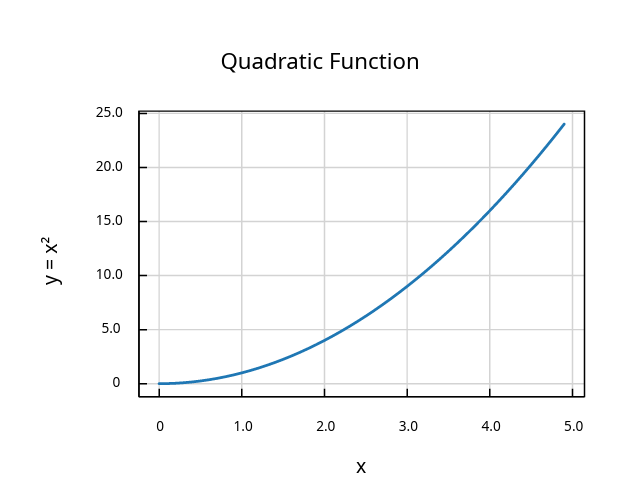
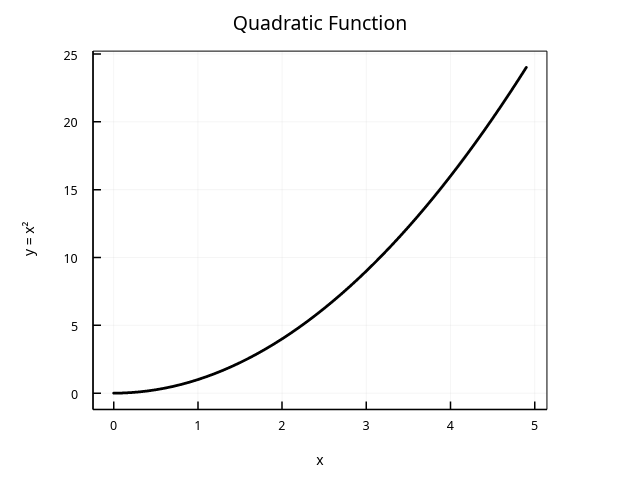
docs: update README for v0.1.0 release
- Fix CI badge URL to Ameyanagi/ruviz
- Remove unverified performance claims and benchmarks
- Remove backend selection section (auto-backend for v0.2)
- Update plot types count to accurate 25+
- Update feature flags table with animation and pdf
- Fix code examples to match actual API
- Simplify comparison section
- Add international text support note
- Update all GitHub URLs to Ameyanagi/ruviz
- Regenerate readme_example.png with publication theme

diff --git a/README.md b/README.md
@@ -5,7 +5,7 @@
 [![Crates.io](https://img.shields.io/crates/v/ruviz)](https://crates.io/crates/ruviz)
 [![Documentation](https://docs.rs/ruviz/badge.svg)](https://docs.rs/ruviz)
 [![License](https://img.shields.io/badge/license-MIT%2FApache--2.0-blue)](LICENSE-MIT)
-[![Build Status](https://img.shields.io/github/workflow/status/ruviz/ruviz/CI)](https://github.com/ruviz/ruviz/actions)
+[![CI](https://github.com/Ameyanagi/ruviz/actions/workflows/ci.yml/badge.svg)](https://github.com/Ameyanagi/ruviz/actions/workflows/ci.yml)
 
 ## Quick Start
 
@@ -17,7 +17,7 @@ use ruviz::simple::*;
 let x: Vec<f64> = (0..50).map(|i| i as f64 * 0.1).collect();
 let y: Vec<f64> = x.iter().map(|&x| x * x).collect();
 
-// One line with automatic optimization
+// One line to create a plot
 line_plot_with_title(&x, &y, "Quadratic Function", "plot.png")?;
 ```
 
@@ -34,7 +34,6 @@ Plot::new()
     .title("Quadratic Function")
     .xlabel("x")
     .ylabel("y = x²")
-    .auto_optimize()  // Intelligent backend selection
     .save("plot.png")?;
 ```
 
@@ -42,19 +41,13 @@ Plot::new()
 
 ## Features
 
-### 🚀 Performance First
-- **<100ms** for 100K points with parallel rendering
-- **<1s** for 1M points with SIMD optimization
-- **<2s** for 100M+ points with DataShader aggregation
-- Zero-copy data handling with ndarray/polars integration
-
 ### 🛡 Safety & Quality
 - **Zero unsafe** in public API
 - Strong type system prevents runtime errors
 - Comprehensive error handling with `Result` types
 - Memory-safe by design
 
-### 📊 Rich Plot Types (30+)
+### 📊 Rich Plot Types (25+)
 **Basic**: Line, Scatter, Bar, Histogram, Box Plot, Heatmap
 **Distribution**: Violin, KDE (1D/2D), Boxen, ECDF, Strip, Swarm
 **Categorical**: Grouped Bar, Stacked Bar, Horizontal Bar
@@ -73,16 +66,15 @@ Plot::new()
 - **Multiple formats**: PNG, SVG *(SVG in development)*
 - **Professional themes**: Light, Dark, Publication, Seaborn-style
 - **Custom styling**: Colors, fonts, markers, line styles
-- **Unicode text**: Full UTF-8 support with cosmic-text
+- **International text**: Full UTF-8 support (Japanese, Chinese, Korean, etc.) with cosmic-text
 
 ### ⚡ Advanced Features
-- **Auto-optimization**: Intelligent backend selection based on data size
 - **Simple API**: One-liner functions for quick plotting
-- **Parallel rendering**: Multi-threaded for large datasets
-- **GPU acceleration**: Optional wgpu backend for real-time
-- **Interactive plots**: Optional winit integration
-- **Memory optimization**: Pooled buffers, adaptive strategies
-- **Cross-platform**: Linux, macOS, Windows, WASM
+- **Parallel rendering**: Multi-threaded for large datasets (rayon)
+- **GPU acceleration**: Optional wgpu backend (experimental)
+- **Interactive plots**: Optional winit window integration
+- **Animation**: GIF export with `record!` macro and easing functions
+- **Cross-platform**: Linux, macOS, Windows
 
 ## Installation
 
@@ -102,16 +94,18 @@ Choose features based on your needs:
 ruviz = { version = "0.1", features = ["parallel", "simd"] }
 ```
 
-| Feature | Description | Use When | Compile Time |
-|---------|-------------|----------|--------------|
-| `default` | ndarray + parallel | General use | +5s |
-| `parallel` | Multi-threaded rendering | >10K points | +3s |
-| `simd` | Vectorized transforms | >100K points | +1s |
-| `gpu` | GPU acceleration | Real-time/interactive | +30s |
-| `interactive` | winit window support | Interactive plots | +15s |
-| `ndarray_support` | ndarray types | Scientific computing | +2s |
-| `polars_support` | DataFrame support | Data analysis | +10s |
-| `full` | All features | Power users | +45s |
+| Feature | Description | Use When |
+|---------|-------------|----------|
+| `default` | ndarray + parallel | General use |
+| `parallel` | Multi-threaded rendering | Large datasets |
+| `simd` | Vectorized transforms | Performance-critical |
+| `animation` | GIF animation export | Animated plots |
+| `gpu` | GPU acceleration (experimental) | Real-time rendering |
+| `interactive` | winit window support | Interactive plots |
+| `ndarray_support` | ndarray types | Scientific computing |
+| `polars_support` | DataFrame support | Data analysis |
+| `pdf` | PDF export | Publication output |
+| `full` | All features | Power users |
 
 For minimal builds: `default-features = false`
 
@@ -157,61 +151,62 @@ Plot::new()
 ```rust
 use ruviz::prelude::*;
 
-let (mut fig, axes) = subplots(2, 2)?;
+let plot1 = Plot::new().line(&x, &y).title("Line").end_series();
+let plot2 = Plot::new().scatter(&x, &y).title("Scatter").end_series();
+let plot3 = Plot::new().bar(&["A", "B", "C"], &[1.0, 2.0, 3.0]).title("Bar").end_series();
+let plot4 = Plot::new().histogram(&data).title("Histogram").end_series();
 
-axes[0][0].line(&x, &y_linear).title("Linear");
-axes[0][1].scatter(&x, &y_scatter).title("Scatter");
-axes[1][0].bar(&categories, &values).title("Bar Chart");
-axes[1][1].histogram(&data).title("Distribution");
-
-fig.suptitle("Scientific Analysis")
+subplots(2, 2, 800, 600)?
+    .suptitle("Scientific Analysis")
+    .subplot(0, 0, plot1)?
+    .subplot(0, 1, plot2)?
+    .subplot(1, 0, plot3)?
+    .subplot(1, 1, plot4)?
     .save("subplots.png")?;
 ```
 
-### Large Dataset with Auto-Optimization
+### Large Dataset
 
 ```rust
 use ruviz::prelude::*;
 
-// 100K points - automatically uses parallel rendering
+// 100K points with parallel rendering (enable "parallel" feature)
 let x: Vec<f64> = (0..100_000).map(|i| i as f64).collect();
 let y: Vec<f64> = x.iter().map(|&x| x.sin()).collect();
 
 Plot::new()
-    .line(&x, &y)  // Automatically optimized for size
+    .line(&x, &y)
     .title("Large Dataset")
-    .save("large.png")?;  // Renders in <100ms
+    .save("large.png")?;
 ```
 
-## Performance
+### Animation
 
-Measured on AMD Ryzen 9 5950X, 64GB RAM, Ubuntu 22.04:
+```rust
+use ruviz::prelude::*;
+use ruviz::animation::RecordConfig;
+use ruviz::record;
 
-| Dataset Size | Render Time | Backend | Status |
-|--------------|-------------|---------|--------|
-| 1K points | 5ms | Default (Skia) | ✅ |
-| 10K points | 18ms | Default | ✅ |
-| 100K points | 85ms | Parallel | ✅ |
-| 1M points | 720ms | Parallel + SIMD | ✅ |
-| 100M points | 1.8s | DataShader | ✅ |
+let x: Vec<f64> = (0..100).map(|i| i as f64 * 0.1).collect();
+let config = RecordConfig::new().max_resolution(800, 600).framerate(30);
 
-See [Performance Guide](docs/performance/PERFORMANCE.md) for detailed benchmarks.
+record!(
+    "wave.gif",
+    2 secs,
+    config: config,
+    |t| {
+        let phase = t.time * 2.0 * std::f64::consts::PI;
+        let y: Vec<f64> = x.iter().map(|&xi| (xi + phase).sin()).collect();
+        Plot::new()
+            .line(&x, &y)
+            .title(format!("Wave Animation (t={:.2}s)", t.time))
+            .xlim(0.0, 10.0)
+            .ylim(-1.5, 1.5)
+    }
+)?;
+```
 
-## Backend Selection
-
-ruviz provides multiple rendering backends optimized for different scenarios:
-
-| Dataset Size | Recommended Backend | How to Enable |
-|--------------|-------------------|---------------|
-| <10K points | Default (Skia) | Automatic |
-| 10K-100K | Parallel | `features = ["parallel"]` |
-| 100K-1M | Parallel + SIMD | `features = ["parallel", "simd"]` |
-| >1M points | DataShader | Automatic aggregation |
-| Interactive | GPU | `features = ["gpu", "interactive"]` |
-
-**Coming soon**: Auto-optimization with `.auto_optimize()` to automatically select the best backend.
-
-See [Backend Guide](docs/guide/07_backends.md) for detailed selection criteria.
+![Animation Example](docs/images/animation_sine_wave.gif)
 
 ## Documentation
 
@@ -225,22 +220,19 @@ See [Backend Guide](docs/guide/07_backends.md) for detailed selection criteria.
 ## Comparison
 
 ### vs matplotlib (Python)
-- **Speed**: 10-100x faster (native Rust vs Python)
 - **Safety**: Compile-time checks vs runtime errors
 - **Memory**: Explicit control vs GC overhead
 - **API**: Similar builder pattern, type-safe
+- **Performance**: Native Rust vs Python interpreter
 
 ### vs plotters (Rust)
-- **Performance**: Optimized for large datasets (100M+ points)
-- **Features**: More plot types, advanced styling
-- **Quality**: Publication-grade output with professional themes
-- **Backends**: Multiple rendering strategies (CPU/GPU/DataShader)
+- **Plot types**: More built-in plot types (25+)
+- **Themes**: Professional publication-ready themes
+- **API**: High-level matplotlib-style API
 
 ### vs plotly (JavaScript/Python)
-- **Performance**: Native speed vs interpreted
 - **Deployment**: No runtime dependencies
-- **Size**: Smaller binary size
-- **Use case**: Server-side rendering vs web-based
+- **Use case**: Server-side static rendering
 
 ## Contributing
 
@@ -250,7 +242,7 @@ Contributions welcome! Please read [CONTRIBUTING.md](CONTRIBUTING.md) for guidel
 
 ```bash
 # Clone repository
-git clone https://github.com/ruviz/ruviz.git
+git clone https://github.com/Ameyanagi/ruviz.git
 cd ruviz
 
 # Setup pre-commit hooks (recommended)
@@ -279,7 +271,7 @@ The pre-commit hooks will automatically run `cargo fmt --check` and `cargo clipp
 - [x] GPU acceleration (experimental)
 - [x] Professional themes
 - [x] Subplots and multi-panel figures
-- [x] **Comprehensive plot types (30+)** - matplotlib/seaborn/Makie parity
+- [x] **Comprehensive plot types (25+)** - matplotlib/seaborn/Makie parity
   - [x] Distribution: Violin, KDE, Boxen, ECDF, Strip, Swarm
   - [x] Categorical: Grouped/Stacked/Horizontal Bar
   - [x] Composition: Pie, Donut, Area
@@ -318,4 +310,4 @@ at your option.
 
 **Status**: v0.1 - Early development, API may change. Production use at your own risk.
 
-**Support**: [Open an issue](https://github.com/ruviz/ruviz/issues) or [start a discussion](https://github.com/ruviz/ruviz/discussions)
+**Support**: [Open an issue](https://github.com/Ameyanagi/ruviz/issues) or [start a discussion](https://github.com/Ameyanagi/ruviz/discussions)
